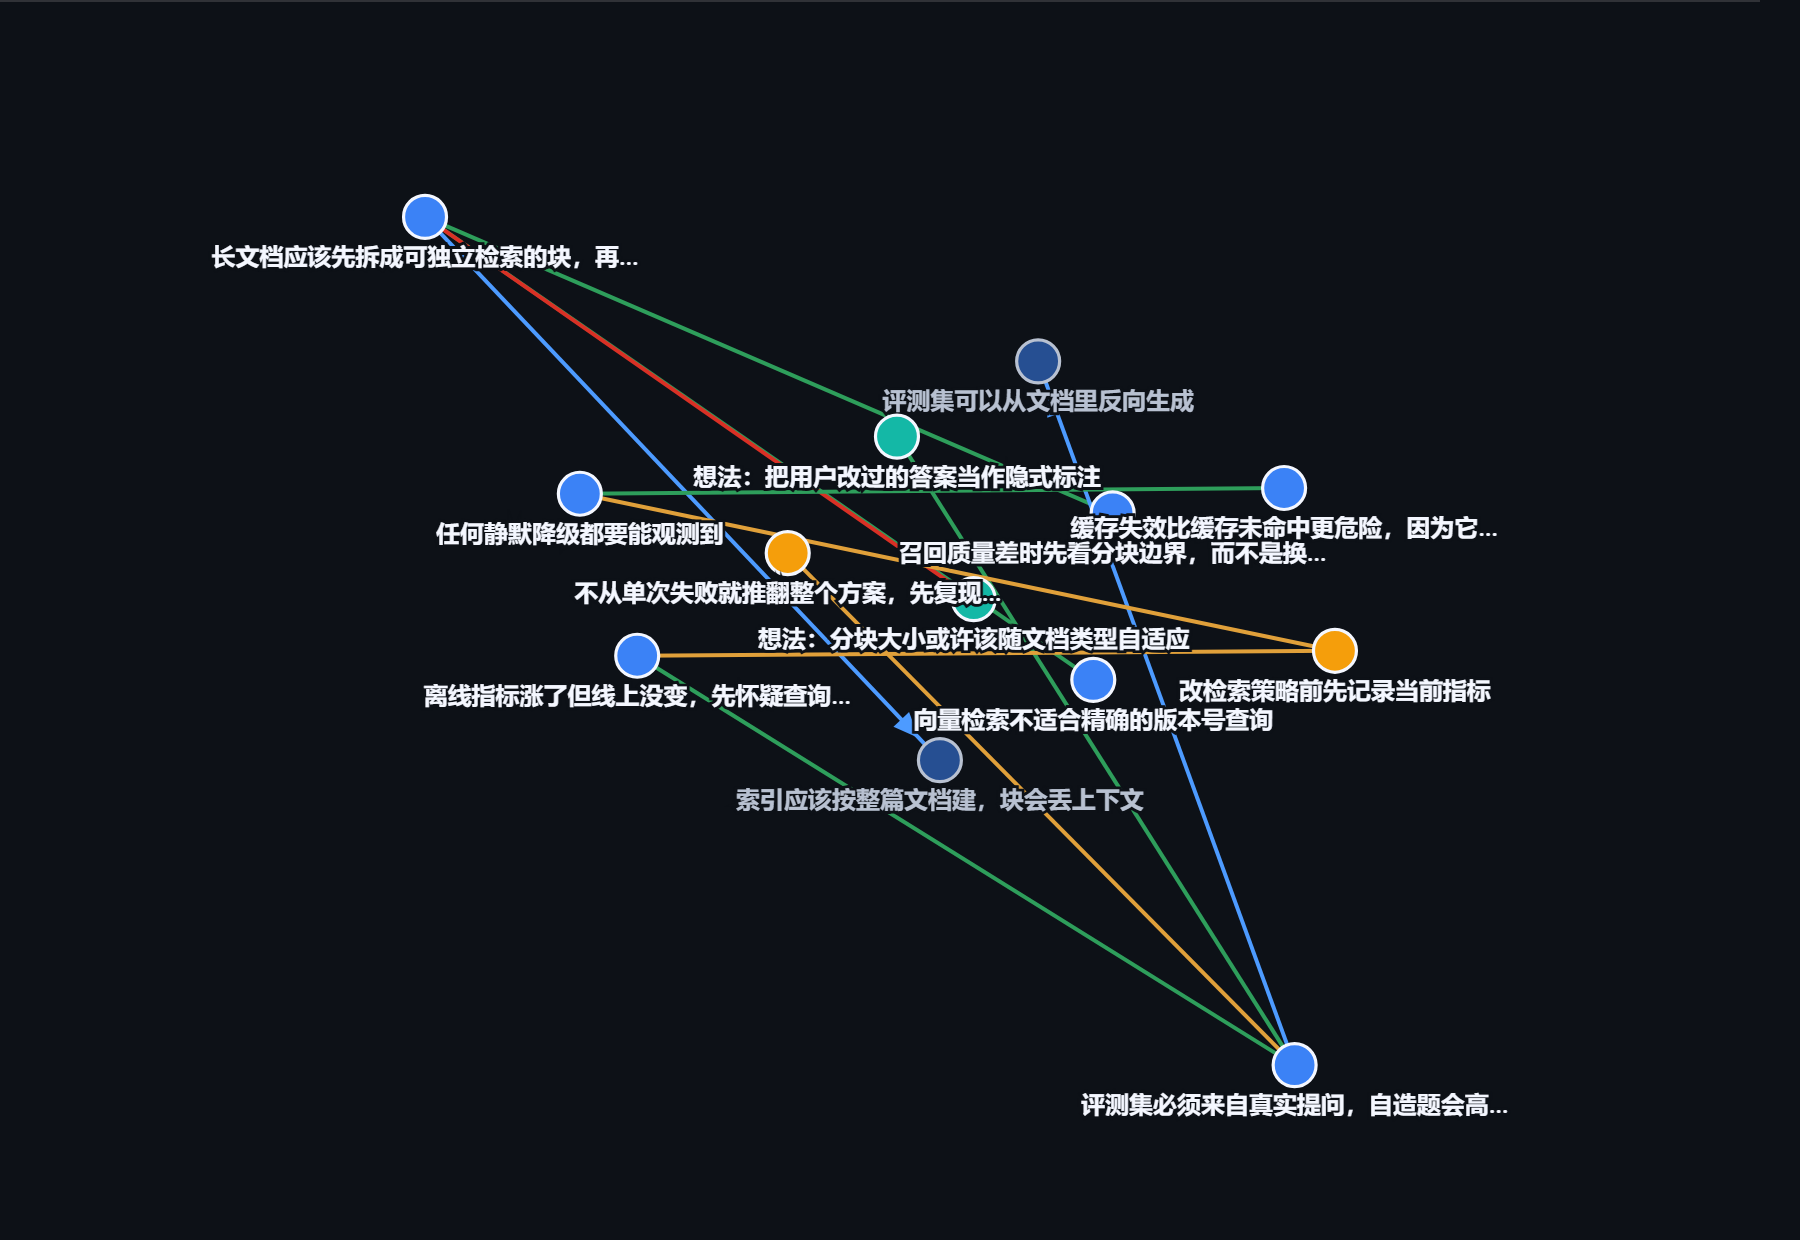
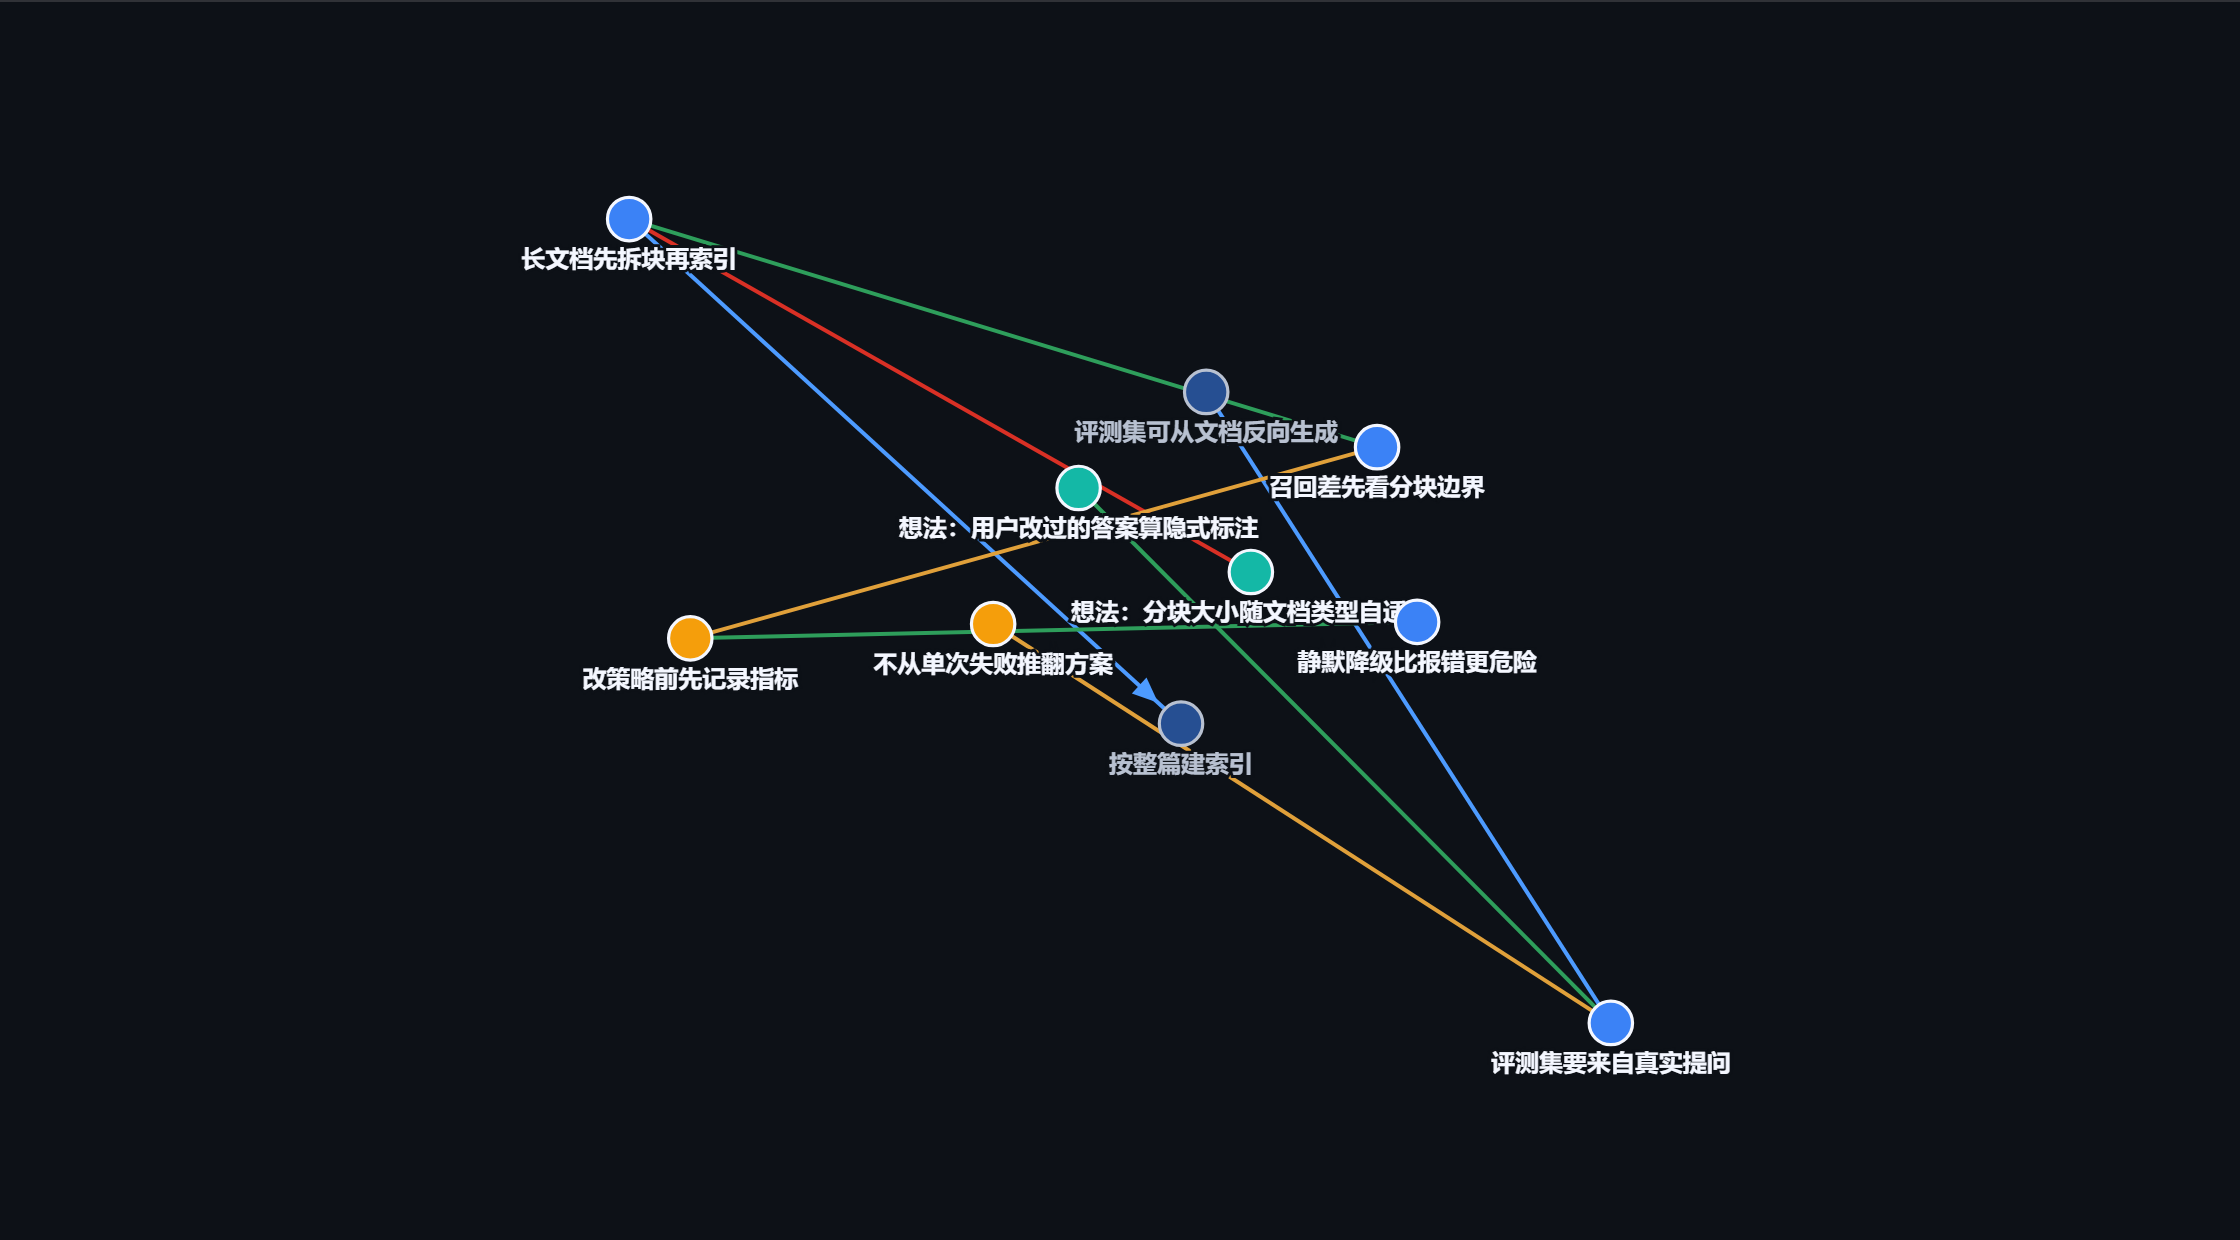
docs: regenerate the README graph screenshot and correct its alt text
The old image was taken before the physics fix, so it showed the layout the
fix was meant to remove: labels stacked into an unreadable pile in the centre
and a node cut off at the bottom edge. A screenshot that contradicts the code
is worse than no screenshot -- it silently documents behaviour that no longer
exists.

## Regeneration

docs/make-screenshot.html gains three fixes, each for a concrete failure:

1. **Wait for convergence, not a fixed delay.** The old page screenshotted
   after a flat 3.5s, while the layout was still moving, so autoFit computed a
   scale from an intermediate state and pushed the bottom node off-canvas. It
   now polls alpha and only reports READY once the simulation has settled.
2. **Fewer, shorter labels.** 13 nodes with near-20-character labels cannot be
   laid out legibly in one viewport; they pile up no matter how good the
   physics is. Now 10 nodes with short labels. The point of the image is to
   show "nodes plus four relation kinds", not to demonstrate the node limit.
3. **Aspect ratio matched to content.** fitToContent caps zoom at 1.6x on
   purpose (a handful of nodes should not become giant blobs), so a 16:9 canvas
   leaves large empty margins around a small cluster. The canvas is now
   1120x620, closer to the shape the layout actually produces.

The plugin's rendering was NOT changed to make the screenshot look better:
fitToContent's 1.6x cap is a deliberate product decision, so the capture was
[…]

Changed region(s): [[0.1244, 0.1532, 0.84, 0.9194], [0.56, 0.7048, 0.5911, 0.7355]]

diff --git a/docs/make-screenshot.html b/docs/make-screenshot.html
@@ -6,7 +6,8 @@
 <style>
   html, body { margin: 0; padding: 0; background: #0d1117; overflow: hidden; }
   /* 模拟 DSH 侧边栏的观感：深色、无边框 */
-  #stage { width: 880px; height: 640px; background: #0d1117; }
+  /* 画布给足空间：13 个节点 + 长标签，880x640 会把中心挤成一团 */
+  #stage { width: 1120px; height: 620px; background: #0d1117; }
   /* 插件 CSS 是 height:100%，这里必须让根元素撑满，否则 canvas 停在 300x150 */
   #stage > .dsh-am-root { height: 100%; }
 </style>
@@ -21,34 +22,36 @@
  * 原因：手写的最小 React 在 useEffect/ref 上不够可靠，而截图只需要渲染器本身。
  */
 
+/**
+ * 示意数据。
+ *
+ * ⚠ 节点数和标签长度是为**可读性**选的，不是随手写的。上一版 13 个节点、
+ * 标签都接近 20 字，在画布中心叠成一片，图看着像"没做完"。这里减到 10 个，
+ * 并让标签更短 —— 图的作用是让人一眼看懂"节点 + 四种关系"，不是展示上限。
+ * 真实的记忆库可以有几倍于此的节点，那由面板自己处理。
+ */
 const NODES = [
-  { id: 'n_a1', kind: 'judgment', status: 'active',     text: '长文档应该先拆成可独立检索的块，再做索引' },
-  { id: 'n_a2', kind: 'judgment', status: 'superseded', text: '索引应该按整篇文档建，块会丢上下文' },
-  { id: 'n_a3', kind: 'judgment', status: 'active',     text: '召回质量差时先看分块边界，而不是换模型' },
-  { id: 'n_a4', kind: 'judgment', status: 'active',     text: '向量检索不适合精确的版本号查询' },
-  { id: 'n_b1', kind: 'judgment', status: 'active',     text: '评测集必须来自真实提问，自造题会高估效果' },
-  { id: 'n_b2', kind: 'judgment', status: 'superseded', text: '评测集可以从文档里反向生成' },
-  { id: 'n_b3', kind: 'judgment', status: 'active',     text: '离线指标涨了但线上没变，先怀疑查询分布不一致' },
-  { id: 'n_c1', kind: 'insight',  status: 'active',     text: '想法：把用户改过的答案当作隐式标注' },
-  { id: 'n_c2', kind: 'insight',  status: 'active',     text: '想法：分块大小或许该随文档类型自适应' },
-  { id: 'n_d1', kind: 'rule',     status: 'active',     text: '改检索策略前先记录当前指标' },
-  { id: 'n_d2', kind: 'rule',     status: 'active',     text: '不从单次失败就推翻整个方案，先复现三次' },
-  { id: 'n_e1', kind: 'judgment', status: 'active',     text: '缓存失效比缓存未命中更危险，因为它不报错' },
-  { id: 'n_e2', kind: 'judgment', status: 'active',     text: '任何静默降级都要能观测到' },
+  { id: 'n_a1', kind: 'judgment', status: 'active',     text: '长文档先拆块再索引' },
+  { id: 'n_a2', kind: 'judgment', status: 'superseded', text: '按整篇建索引' },
+  { id: 'n_a3', kind: 'judgment', status: 'active',     text: '召回差先看分块边界' },
+  { id: 'n_b1', kind: 'judgment', status: 'active',     text: '评测集要来自真实提问' },
+  { id: 'n_b2', kind: 'judgment', status: 'superseded', text: '评测集可从文档反向生成' },
+  { id: 'n_c1', kind: 'insight',  status: 'active',     text: '想法：用户改过的答案算隐式标注' },
+  { id: 'n_c2', kind: 'insight',  status: 'active',     text: '想法：分块大小随文档类型自适应' },
+  { id: 'n_d1', kind: 'rule',     status: 'active',     text: '改策略前先记录指标' },
+  { id: 'n_d2', kind: 'rule',     status: 'active',     text: '不从单次失败推翻方案' },
+  { id: 'n_e1', kind: 'judgment', status: 'active',     text: '静默降级比报错更危险' },
 ]
 
 const EDGES = [
   { from: 'n_a1', to: 'n_a2', type: 'supersedes' },
   { from: 'n_a3', to: 'n_a1', type: 'complements' },
-  { from: 'n_a4', to: 'n_a1', type: 'complements' },
   { from: 'n_b1', to: 'n_b2', type: 'supersedes' },
-  { from: 'n_b3', to: 'n_b1', type: 'complements' },
   { from: 'n_c1', to: 'n_b1', type: 'complements' },
   { from: 'n_c2', to: 'n_a1', type: 'tensions' },
-  { from: 'n_d1', to: 'n_b3', type: 'depends' },
+  { from: 'n_d1', to: 'n_a3', type: 'depends' },
   { from: 'n_d2', to: 'n_b1', type: 'depends' },
-  { from: 'n_e1', to: 'n_e2', type: 'complements' },
-  { from: 'n_e2', to: 'n_d1', type: 'depends' },
+  { from: 'n_e1', to: 'n_d1', type: 'complements' },
 ]
 
 const NODES_FULL = NODES.map((n) => ({
@@ -147,8 +150,26 @@ if (!GraphRendererClass) {
     const r = new GraphRendererClass(canvas, { onSelect: () => {}, onToggleRetired: () => {} })
     window.__r = r
     r.setData(NODES_FULL, EDGES)
-    // 让力导向跑一会儿再截图
-    setTimeout(() => { document.title = 'READY' }, 3500)
+
+    /**
+     * 等力导向收敛后再定稿。
+     *
+     * ⚠ autoFit 只在 alpha 收敛后才算出稳定视野。上一版固定等 3.5s 就截图，
+     * 那时布局还在动，autoFit 按一个中间态算比例，结果**底部节点被切出画布**。
+     * 这里改成轮询 alpha：低于阈值再等一小会儿让 autoFit 落地，然后才 READY。
+     */
+    const settle = () => {
+      const alpha = r.alpha ?? 1
+      if (alpha > 0.005) {
+        setTimeout(settle, 120)
+        return
+      }
+      // 收敛后再给两帧，让 autoFit 的最终比例生效
+      requestAnimationFrame(() => requestAnimationFrame(() => {
+        document.title = 'READY'
+      }))
+    }
+    setTimeout(settle, 400)
   }))
 }
 </script>

diff --git a/README.md b/README.md
@@ -2,7 +2,7 @@
 
 给 DeepSeek Harness（DSH）里的 AI 一套属于自己的长期记忆，并让人格从这些记忆和经历中逐渐生长出来。
 
-![判断关系图谱：节点是判断 / 想法 / 规矩，连线是取代 / 互补 / 矛盾 / 依据（示意数据）](docs/graph.png)
+![判断关系图谱：节点颜色区分种类——蓝是判断，青是想法，橙是规矩；连线颜色区分关系——绿是互补，红是矛盾，黄是依据，带箭头的蓝线是取代（示意数据，非真实记忆）](docs/graph.png)
 
 这个插件记录的不是完整聊天记录，也不是一组由用户写死的角色设定。它记录 AI 在互动中形成的判断、规则、想法、记忆来源和人格特征。它把这些内容保存为一个可追溯的 JSONL 账本，再从账本中计算当前状态、演化历史和关系图谱。
 
